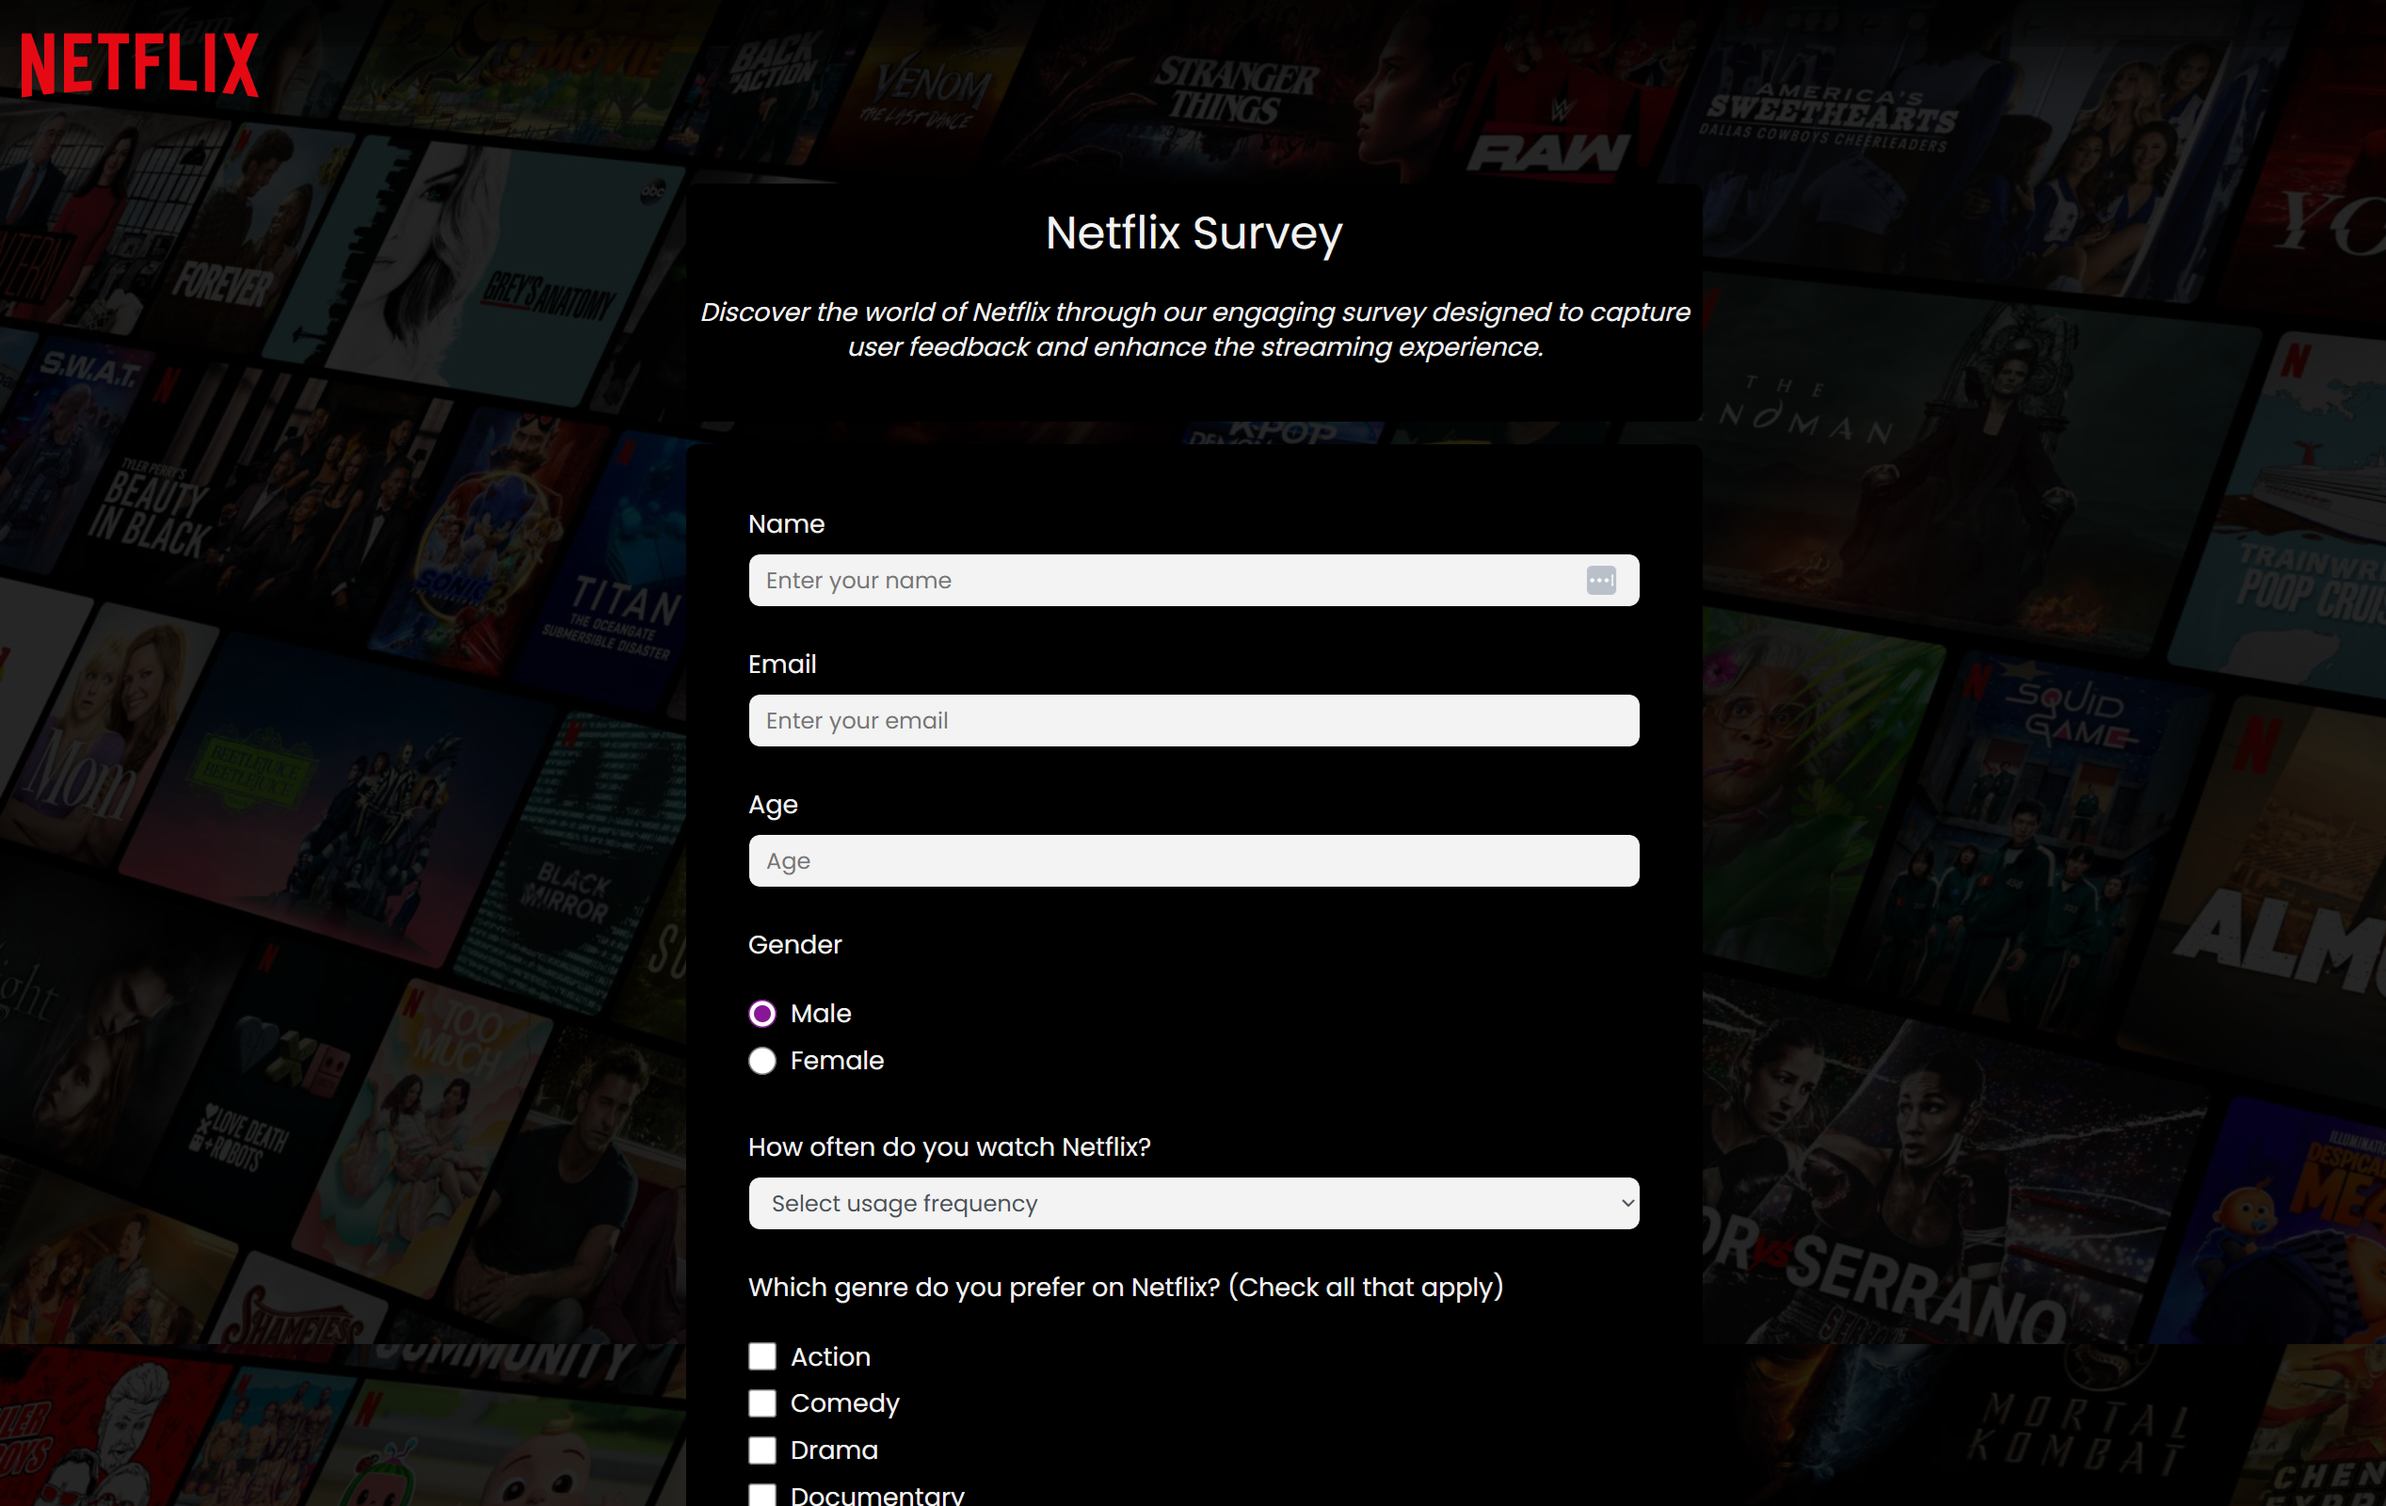
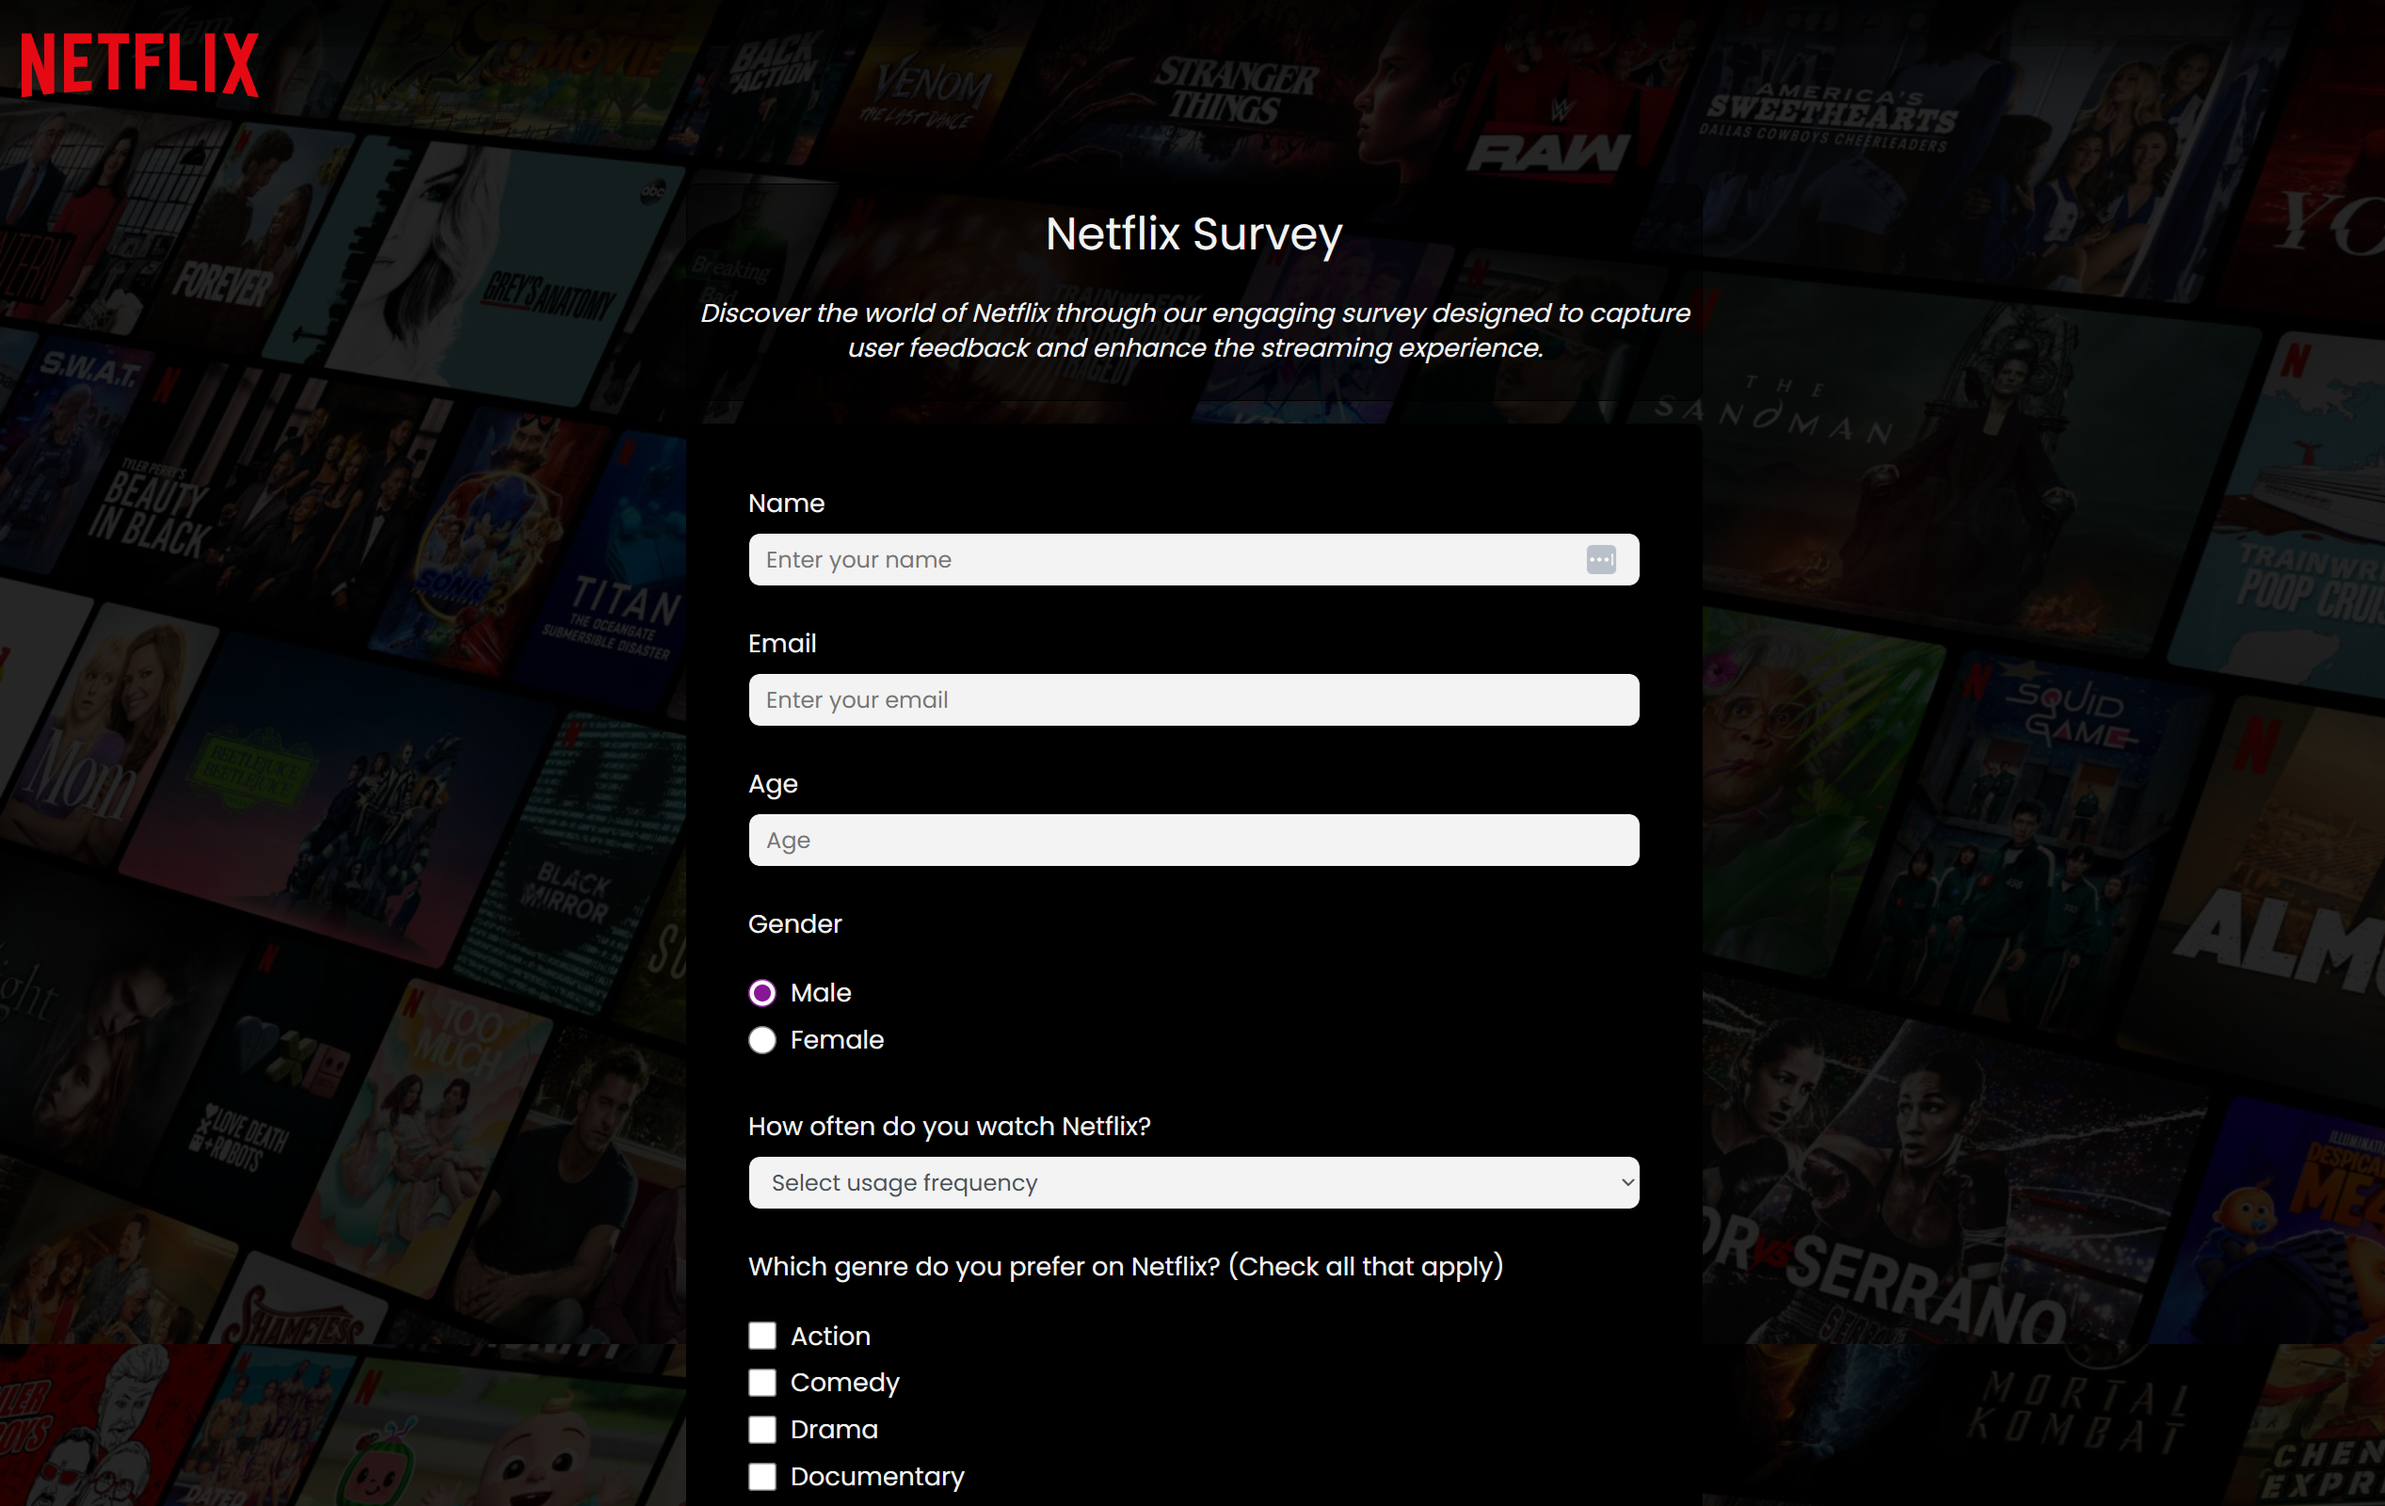
Updates

diff --git a/css/styles.css b/css/styles.css
@@ -1,1 +1,1 @@
-:root{--black: #000000;--black-o-1: rgba(0, 0, 0, .1);--black-o-5: rgba(0, 0, 0, .5);--black-o-8: rgba(0, 0, 0, .8);--white: #f3f3f3;--red: #ac2028;--netflix-red: #e50914;--border-radius: .5rem;--main-gradient: linear-gradient(var(--black-o-8) 95%, var(--black-o-1) 100%);--image-1-small: url("../img/img-1-small.jpg");--image-1-medium: url("../img/img-1-medium.jpg");--image-1-large: url("../img/img-1-large.jpg");--image-2-small: url("../img/img-2-small.jpg");--image-2-medium: url("../img/img-2-medium.jpg");--image-2-large: url("../img/img-2-large.jpg");--image-3-small: url("../img/img-3-small.jpg");--image-3-medium: url("../img/img-3-medium.jpg");--image-3-large: url("../img/img-3-large.jpg")}*{margin:0;padding:0}*,*::before,*::after{box-sizing:border-box}body{font-family:"Poppins",sans-serif;font-size:1rem;font-weight:400;line-height:1.4;color:var(--white);margin:0;background-color:var(--black)}a{cursor:pointer}.main{position:relative;background-size:contain;background-position:top,top,center center,bottom center;background-repeat:no-repeat,no-repeat,no-repeat,no-repeat;background-image:var(--main-gradient),var(--image-1-small)}@media(min-width: 576px){.main{background-image:var(--main-gradient),var(--image-1-small),var(--image-2-small),var(--image-3-small)}}@media(min-width: 768px){.main{background-size:200vh !important;background-image:var(--main-gradient),var(--image-1-medium),var(--image-2-medium),var(--image-3-medium)}}@media(min-width: 1280px){.main{background-size:contain !important;background-image:var(--main-gradient),var(--image-1-large),var(--image-2-large),var(--image-3-large)}}.main #header{background-image:linear-gradient(180deg, rgba(0, 0, 0, 0.8) 0%, rgba(0, 0, 0, 0.7889) 8.333%, rgba(0, 0, 0, 0.7556) 16.67%, rgba(0, 0, 0, 0.7) 25%, rgba(0, 0, 0, 0.6222) 33.33%, rgba(0, 0, 0, 0.5222) 41.67%, rgba(0, 0, 0, 0.4) 5%, rgba(0, 0, 0, 0.2778) 58.33%, rgba(0, 0, 0, 0.1778) 66.67%, var(--black-o-1) 75%, rgba(0, 0, 0, 0.04444) 83.33%, rgba(0, 0, 0, 0.01111) 91.67%, rgba(0, 0, 0, 0) 10%)}.main #header.pinning-header{z-index:1;height:auto;min-height:5rem}.main #header.pinning-header .pinning-header-container{z-index:1}.main #header.pinning-header .main-header{z-index:2;height:4.875rem;padding:0 .9375rem;position:relative;display:flex;align-items:center;background-color:rgba(0,0,0,0)}.main #header.pinning-header .main-header .logo{margin-right:.3125rem;text-decoration:none;display:inline-block;vertical-align:middle}@media screen and (min-width: 950px){.main #header.pinning-header .main-header .logo{font-size:1.5625rem}}@media screen and (min-width: 1150px){.main #header.pinning-header .main-header .logo{margin-right:1.5625rem}}.main #header .logo-link{width:1.125rem;height:2rem;fill:var(--netflix-red);line-height:2.5rem;display:inline-block;text-decoration:none;vertical-align:middle}.main #header .logo-link .n-logo,.main #header .logo-link .netflix-logo{vertical-align:middle}.main #header .logo-link .n-logo{width:1.125rem;height:2rem;display:block;flex-shrink:0}.main #header .logo-link .netflix-logo{display:none;width:10.5rem;height:2.875rem}.main .container{width:100%;position:relative;margin:3.125rem auto 0 auto}@media(min-width: 576px){.main .container{max-width:33.75rem}}@media(min-width: 768px){.main .container{max-width:45rem}}.main .container .hero-container{padding:1rem 0;margin-bottom:1rem;background-color:var(--black);border-radius:var(--border-radius)}.main .container form{padding:2.5rem .625rem;border-radius:var(--border-radius);background-color:var(--black)}@media(min-width: 480px){.main .container form{padding:2.5rem}}.main .container form .form-group{margin:0 auto 1.25rem auto;padding:.25rem}.main .container form .form-group .form-control{display:block;width:100%;height:2.375rem;padding:.375rem .75rem;color:#495057;background-color:var(--white);background-clip:padding-box;border:1px solid var(--black);border-radius:var(--border-radius);transition:border-color .15s ease-in-out,box-shadow .15s ease-in-out}.main .container form .form-group .form-control:focus{border-color:var(--netflix-red);outline:0;box-shadow:0 0 0 .2rem rgba(0,123,255,.25)}.main .container form .form-group .input-textarea{min-height:7.5rem;width:100%;padding:.625rem;resize:vertical}.main .container form .form-group .submit-button{display:block;width:100%;padding:.75rem;background:var(--red);color:var(--white);cursor:pointer;border-radius:var(--border-radius)}.main .container .text-center{text-align:center}.main .container h1{font-weight:400;line-height:1.2}.main .container p{font-size:1.125rem}.main .container p.description{font-style:italic;font-weight:200;text-shadow:1px 1px 1px var(--black-o-5);padding:0 .375rem}.main .container h1,.main .container p{margin-top:0;margin-bottom:1.5rem}.main .container label{display:flex;align-items:center;font-size:1.125rem;margin-bottom:.5rem}.main .container label .input-radio,.main .container label .input-checkbox{display:inline-block;margin-right:.625rem;min-height:1.25rem;min-width:1.25rem}.main .container input,.main .container button,.main .container select,.main .container textarea{margin:0;font-family:inherit;font-size:inherit;line-height:inherit}.main .container button{border:none}.main footer{display:flex;align-content:center;justify-content:center;margin-top:1rem;padding:1rem;background-color:var(--black)}.main footer p{margin-bottom:0;color:var(--white)}.main footer p a{color:var(--white);line-height:inherit}.main footer p a:hover{color:var(--red)}@media(min-width: 768px){#header .logo-link{width:10.5rem;height:2.875rem}#header .logo-link .n-logo{display:none !important}#header .logo-link .netflix-logo{display:block !important}}
+:root{--black: #000000;--black-o-1: rgba(0, 0, 0, .1);--black-o-5: rgba(0, 0, 0, .5);--black-o-8: rgba(0, 0, 0, .8);--white: #f3f3f3;--red: #ac2028;--netflix-red: #e50914;--border-radius: .5rem;--main-gradient: linear-gradient(var(--black-o-8) 95%, var(--black-o-1) 100%);--image-1-small: url("../img/img-1-small.jpg");--image-1-medium: url("../img/img-1-medium.jpg");--image-1-large: url("../img/img-1-large.jpg");--image-2-small: url("../img/img-2-small.jpg");--image-2-medium: url("../img/img-2-medium.jpg");--image-2-large: url("../img/img-2-large.jpg");--image-3-small: url("../img/img-3-small.jpg");--image-3-medium: url("../img/img-3-medium.jpg");--image-3-large: url("../img/img-3-large.jpg")}*{margin:0;padding:0}*,*::before,*::after{box-sizing:border-box}body{font-family:"Poppins",sans-serif;font-size:1rem;font-weight:400;line-height:1.4;color:var(--white);margin:0;background-color:var(--black)}a{cursor:pointer}.main{position:relative;background-size:108vh;background-position:top,top center,center center,bottom center;background-repeat:no-repeat,no-repeat,no-repeat,no-repeat;background-image:var(--main-gradient),var(--image-1-small),var(--image-2-small),var(--image-3-small)}@media(min-width: 576px){.main{background-size:208vh !important;background-image:var(--main-gradient),var(--image-1-medium),var(--image-2-medium),var(--image-3-medium)}}@media(min-width: 1280px){.main{background-size:contain !important;background-image:var(--main-gradient),var(--image-1-large),var(--image-2-large),var(--image-3-large)}}.main #header{background-image:linear-gradient(180deg, rgba(0, 0, 0, 0.8) 0%, rgba(0, 0, 0, 0.7889) 8.333%, rgba(0, 0, 0, 0.7556) 16.67%, rgba(0, 0, 0, 0.7) 25%, rgba(0, 0, 0, 0.6222) 33.33%, rgba(0, 0, 0, 0.5222) 41.67%, rgba(0, 0, 0, 0.4) 5%, rgba(0, 0, 0, 0.2778) 58.33%, rgba(0, 0, 0, 0.1778) 66.67%, var(--black-o-1) 75%, rgba(0, 0, 0, 0.04444) 83.33%, rgba(0, 0, 0, 0.01111) 91.67%, rgba(0, 0, 0, 0) 10%)}.main #header.pinning-header{z-index:1;height:auto;min-height:5rem}.main #header.pinning-header .pinning-header-container{z-index:1}.main #header.pinning-header .main-header{z-index:2;height:4.875rem;padding:0 .9375rem;position:relative;display:flex;align-items:center;background-color:rgba(0,0,0,0)}.main #header.pinning-header .main-header .logo{margin-right:.3125rem;text-decoration:none;display:inline-block;vertical-align:middle}@media screen and (min-width: 950px){.main #header.pinning-header .main-header .logo{font-size:1.5625rem}}@media screen and (min-width: 1150px){.main #header.pinning-header .main-header .logo{margin-right:1.5625rem}}.main #header .logo-link{width:1.125rem;height:2rem;fill:var(--netflix-red);line-height:2.5rem;display:inline-block;text-decoration:none;vertical-align:middle}.main #header .logo-link .n-logo,.main #header .logo-link .netflix-logo{vertical-align:middle}.main #header .logo-link .n-logo{width:1.125rem;height:2rem;display:block;flex-shrink:0}.main #header .logo-link .netflix-logo{display:none;width:10.5rem;height:2.875rem}.main .container{width:100%;position:relative;margin:3.125rem auto 0 auto}@media(min-width: 576px){.main .container{max-width:33.75rem}}@media(min-width: 768px){.main .container{max-width:45rem}}.main .container .hero-container{padding-top:1rem;margin-bottom:1rem;border:1px solid var(--black);background-color:var(--black-o-5);border-radius:var(--border-radius)}.main .container form{padding:.625rem;border-radius:var(--border-radius);background-color:var(--black)}@media(min-width: 480px){.main .container form{padding:2.5rem}}.main .container form .form-group{margin:0 auto 1.25rem auto;padding:.25rem}.main .container form .form-group:last-child{margin-bottom:.25rem}.main .container form .form-group .form-control{display:block;width:100%;height:2.375rem;padding:.375rem .75rem;color:#495057;background-color:var(--white);background-clip:padding-box;border:1px solid var(--black);border-radius:var(--border-radius);transition:border-color .15s ease-in-out,box-shadow .15s ease-in-out}.main .container form .form-group .form-control:focus{border-color:var(--netflix-red);outline:0;box-shadow:0 0 0 .2rem rgba(0,123,255,.25)}.main .container form .form-group .input-textarea{min-height:7.5rem;width:100%;padding:.625rem;resize:vertical}.main .container form .form-group .submit-button{display:block;width:100%;padding:.75rem;background:var(--red);color:var(--white);cursor:pointer;border-radius:var(--border-radius)}.main .container .text-center{text-align:center}.main .container h1{font-weight:400;line-height:1.2}.main .container p{font-size:1.125rem}.main .container p.description{font-style:italic;font-weight:200;text-shadow:1px 1px 1px var(--black-o-5);padding:0 .375rem}.main .container h1,.main .container p{margin-top:0;margin-bottom:1.5rem}.main .container label{display:flex;align-items:center;font-size:1.125rem;margin-bottom:.5rem}.main .container label .input-radio,.main .container label .input-checkbox{display:inline-block;margin-right:.625rem;min-height:1.25rem;min-width:1.25rem}.main .container input,.main .container button,.main .container select,.main .container textarea{margin:0;font-family:inherit;font-size:inherit;line-height:inherit}.main .container button{border:none}.main footer{display:flex;align-content:center;justify-content:center;margin-top:1rem;padding:1rem;background-color:var(--black)}.main footer p{margin-bottom:0;color:var(--white)}.main footer p a{color:var(--white);line-height:inherit}.main footer p a:hover{color:var(--red)}@media(min-width: 768px){#header .logo-link{width:10.5rem;height:2.875rem}#header .logo-link .n-logo{display:none !important}#header .logo-link .netflix-logo{display:block !important}}
